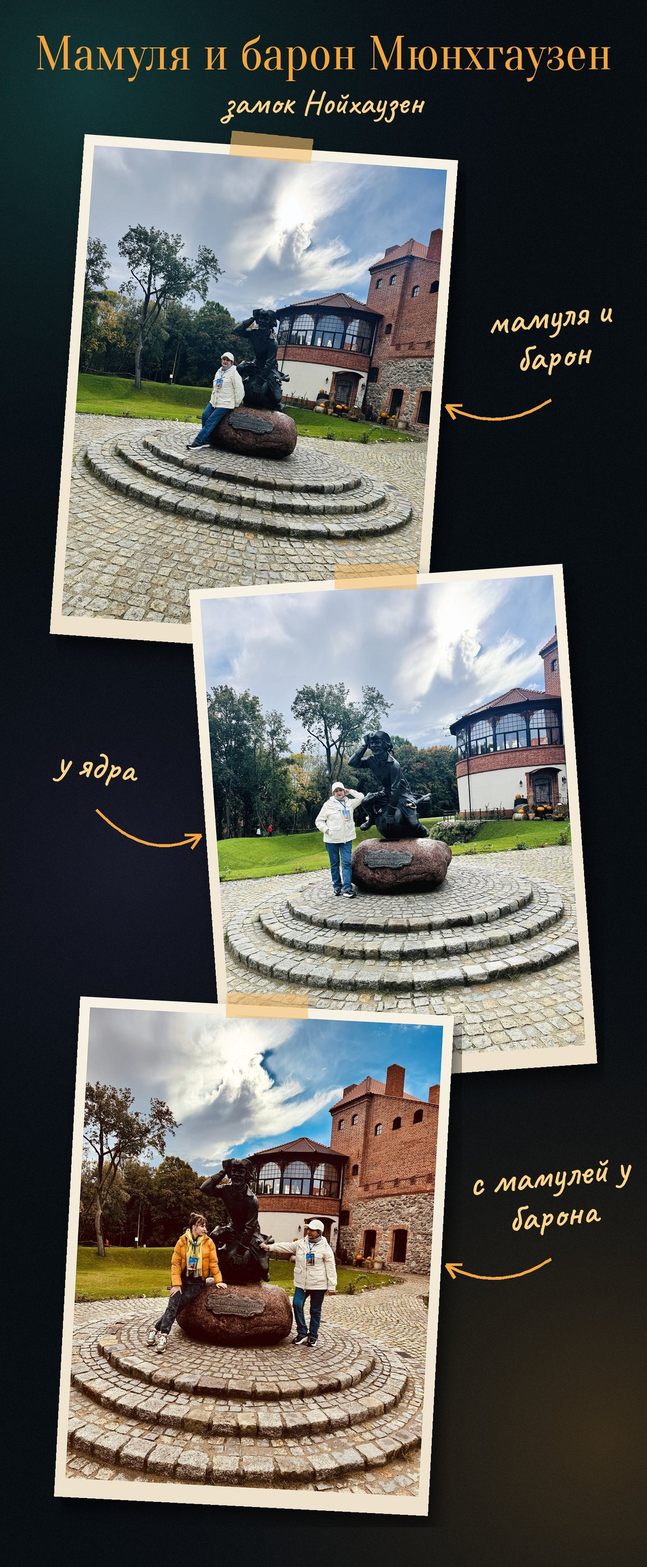
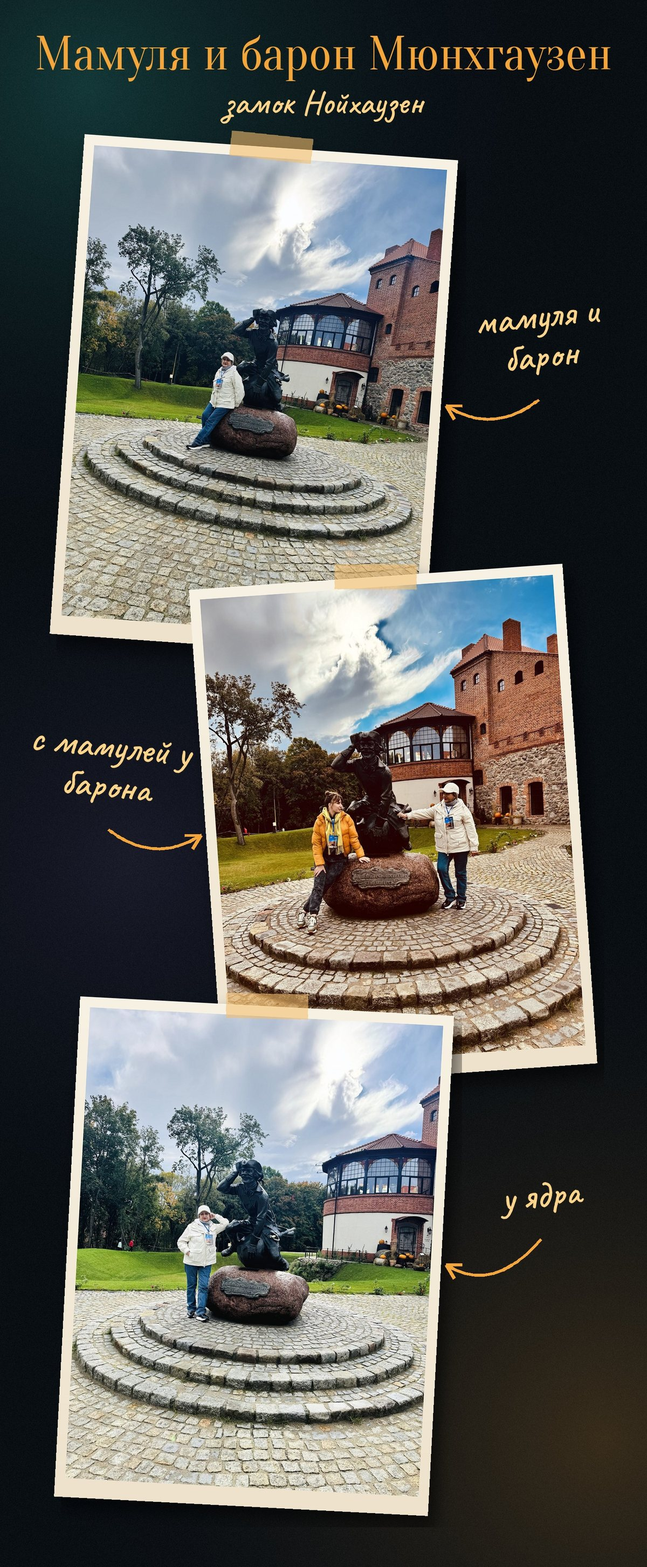
Альбом «Калининград»: страница «Мамуля и барон Мюнхгаузен» — мы с мамулей в центре
По просьбе: сверху «мамуля и барон», в центре «с мамулей у барона», снизу «у ядра».

Claude-Session: https://claude.ai/code/session_01BUmNQ2Kk9fTi5P6tnA3gYJ

diff --git a/kaliningrad/album/index.html b/kaliningrad/album/index.html
@@ -677,7 +677,7 @@ body.picking .wrap{padding-bottom:calc(var(--nav-h) + 230px + env(safe-area-inse
  {"id": "d2-81", "day": 2, "src": "photos/d2-81.jpg", "thumb": "photos/t/d2-81.jpg", "w": 1200, "h": 2906, "town": "gur", "title": "Кирха 1292 года", "date": "2026-10-12", "collage": true},
  {"id": "d2-82", "day": 2, "src": "photos/d2-82.jpg?v=2", "thumb": "photos/t/d2-82.jpg?v=2", "w": 1200, "h": 2775, "place": "neuh", "title": "Валуны и кирпич", "date": "2026-10-12", "collage": true},
  {"id": "d2-83", "day": 2, "src": "photos/d2-83.jpg?v=2", "thumb": "photos/t/d2-83.jpg?v=2", "w": 1200, "h": 2906, "place": "neuh", "title": "Мамуля у древних стен", "date": "2026-10-12", "collage": true},
- {"id": "d2-84", "day": 2, "src": "photos/d2-84.jpg", "thumb": "photos/t/d2-84.jpg", "w": 1200, "h": 2906, "place": "neuh", "title": "Мамуля и барон Мюнхгаузен", "date": "2026-10-12", "collage": true},
+ {"id": "d2-84", "day": 2, "src": "photos/d2-84.jpg?v=2", "thumb": "photos/t/d2-84.jpg?v=2", "w": 1200, "h": 2906, "place": "neuh", "title": "Мамуля и барон Мюнхгаузен", "date": "2026-10-12", "collage": true},
  {"id": "d2-85", "day": 2, "src": "photos/d2-85.jpg", "thumb": "photos/t/d2-85.jpg", "w": 1200, "h": 2906, "place": "neuh", "title": "Я и барон Мюнхгаузен", "date": "2026-10-12", "collage": true},
  {"id": "d2-19", "day": 2, "src": "photos/d2-19.jpg", "thumb": "photos/t/d2-19.jpg", "w": 1500, "h": 2000, "place": "neuh", "title": "С мамулей: «Улыбайтесь, господа!»", "date": "2026-10-12"},
  {"id": "d2-20", "day": 2, "src": "photos/d2-20.jpg", "thumb": "photos/t/d2-20.jpg", "w": 1500, "h": 2000, "place": "neuh", "title": "Селфи с мамулей во дворе Нойхаузена", "date": "2026-10-12"},
